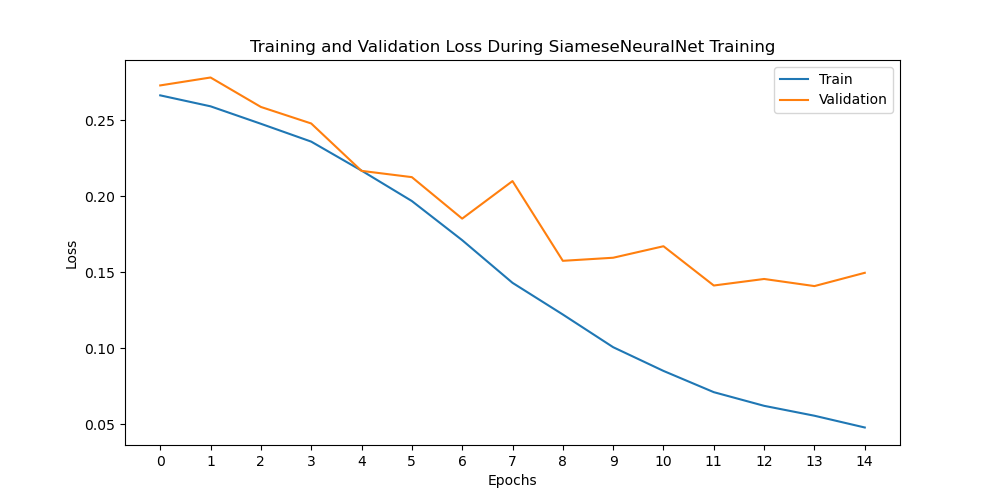
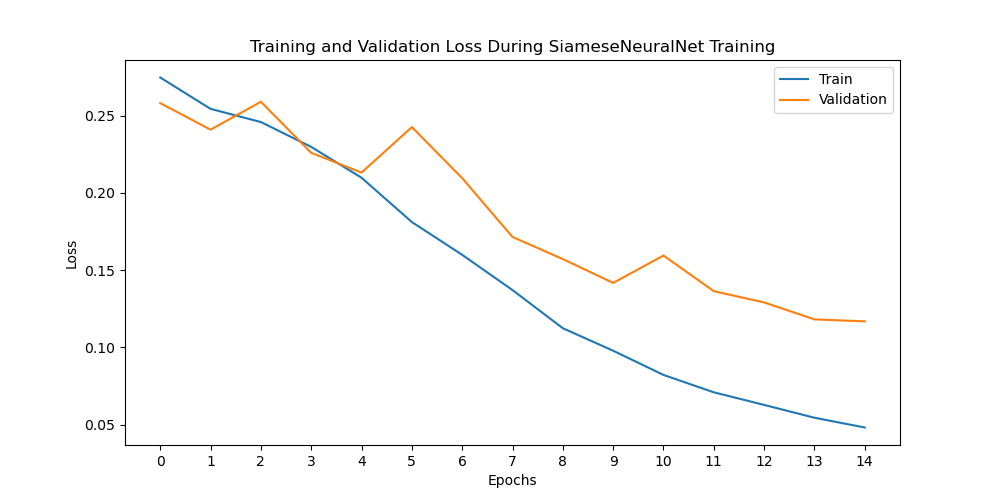
dataloading is now more robust against potential leakage between the train and validation sets, associated report changes

diff --git a/recognition/Siamese_46417259/dataset.py b/recognition/Siamese_46417259/dataset.py
@@ -108,70 +108,75 @@ class PairedDataset(torch.utils.data.Dataset):
         return self.debug_mode
 
 
-def load_data(training:bool, Siamese:bool, random_seed=None, train_proportion=0.8) -> torch.utils.data.DataLoader:
+def load_data(Siamese:bool, random_seed=None, train_proportion=0.8) -> torch.utils.data.DataLoader:
     """
     Function used to load training and validation data
-    this operation is not deterministic even if a random seed is provided, 
-    as the casting from set to list is not deterministic
+    this operation is deterministic if a random seed is provided
     args:
-        training: True loads training data, False loads validation data
         Siamese: True loads paired data for the Siamese Neural Network, False loads unitary data for the MLP
         random_seed: random seed to reduce randomness
         train_proportion: proportion of the dataset to be assigned to the training set.
             based on the number of unique patients in the dataset
     """
     path = train_path
-    if training:
-        if Siamese:
-            transforms = Siamese_train_transforms
-        else:
-            transforms = classifier_train_transforms
+    if Siamese:
+        train_transforms = Siamese_train_transforms
     else:
-        # validation set uses the same transforms as the test set
-        transforms = test_transforms
+        train_transforms = classifier_train_transforms
 
     if random_seed is not None:
         random.seed(random_seed)
         torch.random.manual_seed(random_seed)
 
-    source = dset.ImageFolder(root=path, transform=transforms)
-    patient_ids = set()
+    train_source = dset.ImageFolder(root=path, transform=train_transforms)
+    validation_source = dset.ImageFolder(root=path, transform=test_transforms)
+    patient_ids = {} # in Python 3.11.4 map is ordered in insertion order 
     
     # get a list of unique patient IDs
-    for i in range(len(source)):
-        filepath = source.imgs[i][0]
+    for i in range(len(train_source)):
+        filepath = train_source.imgs[i][0]
         # finds the patient ID from the filepath - specific to the ADNI dataset
         start, end = filepath.rfind(os.path.sep) + 1, filepath.rfind('_') 
         patient_id = filepath[start:end]
-        patient_ids.add(patient_id)
+        patient_ids[patient_id] = 0
     
-    patient_ids = list(patient_ids) # not deterministic
+    patient_ids = list(patient_ids.keys())
+    random.shuffle(patient_ids)
     split_point = int(train_proportion*len(patient_ids))
 
-    if training:
-        patients = patient_ids[:split_point]
-    else: 
-        patients = patient_ids[split_point:]
+    train_patients = patient_ids[:split_point]
 
-    indices_to_be_included = []
+    train_indices_to_be_included = []
+    validate_indices_to_be_included = []
 
-    # only include images from the selected patients
-    for i in range(len(source)):
-        filepath = source.imgs[i][0]
+    # separate images of the training patients and the validation patients
+    for i in range(len(train_source)):
+        filepath = train_source.imgs[i][0]
         start, end = filepath.rfind(os.path.sep) + 1, filepath.rfind('_')
         patient_id = filepath[start:end]
 
-        if patient_id in patients:
-            indices_to_be_included.append(i)
+        if patient_id in train_patients:
+            train_indices_to_be_included.append(i)
+        else:
+            validate_indices_to_be_included.append(i)
     
-    source = torch.utils.data.Subset(source, indices_to_be_included)
+    train_source = torch.utils.data.Subset(train_source, train_indices_to_be_included)
+    validation_source = torch.utils.data.Subset(validation_source, validate_indices_to_be_included)
 
-    images = source.dataset.imgs
-    image_paths = [images[i][0] for i in indices_to_be_included]
+    images = train_source.dataset.imgs
+    image_paths = [images[i][0] for i in train_indices_to_be_included]
+    print(f'train dataset has classes {train_source.dataset.class_to_idx} and {len(train_source)} images')
+    
+    # some statistics to cross-check that there is a roughly even split between AD and NC images
+    img_AD = [index for (index, item) in enumerate(image_paths) if item.find('AD' + os.path.sep) != -1]
+    print(f'AD images count: {len(img_AD)}')
+    img_NC = [index for (index, item) in enumerate(image_paths) if item.find(os.path.sep + 'NC') != -1]
+    print(f'NC images count: {len(img_NC)}')
 
-    print(f'loading {"training" if training else "validation"} data with a training split of {train_proportion}')
-    print(f'dataset has classes {source.dataset.class_to_idx} and {len(source)} images')
-
+    images = validation_source.dataset.imgs
+    image_paths = [images[i][0] for i in validate_indices_to_be_included]
+    print(f'validation dataset has classes {validation_source.dataset.class_to_idx} and {len(validation_source)} images')
+    
     # some statistics to cross-check that there is a roughly even split between AD and NC images
     img_AD = [index for (index, item) in enumerate(image_paths) if item.find('AD' + os.path.sep) != -1]
     print(f'AD images count: {len(img_AD)}')
@@ -182,17 +187,23 @@ def load_data(training:bool, Siamese:bool, random_seed=None, train_proportion=0.
         # loading paired data for the Siamese neural net
         # each data point is of format [img1, img2, similarity]
         # where similarity is 1 if the two images are of the same class and 0 otherwise
-        dataset = PairedDataset(source, False, random_seed=random_seed)
-        loader = torch.utils.data.DataLoader(dataset, batch_size=batch_size,
+        dataset = PairedDataset(train_source, False, random_seed=random_seed)
+        train_loader = torch.utils.data.DataLoader(dataset, batch_size=batch_size,
+                                            shuffle=True, num_workers=workers)
+        
+        dataset = PairedDataset(validation_source, False, random_seed=random_seed)
+        validation_loader = torch.utils.data.DataLoader(dataset, batch_size=batch_size,
                                             shuffle=True, num_workers=workers)
     else:
         # loading unitary training data for the MLP
         # each data point is of format [img, label]
         # where label is 1 if the image is of class AD and 0 otherwise
-        loader = torch.utils.data.DataLoader(source, batch_size=2*batch_size,
+        train_loader = torch.utils.data.DataLoader(train_source, batch_size=2*batch_size,
+                                            shuffle=True, num_workers=workers)
+        validation_loader = torch.utils.data.DataLoader(validation_source, batch_size=2*batch_size,
                                             shuffle=True, num_workers=workers)
     
-    return loader
+    return train_loader, validation_loader
 
 def load_test_data(Siamese:bool, random_seed=None) -> torch.utils.data.DataLoader:
     """
@@ -231,9 +242,9 @@ def load_test_data(Siamese:bool, random_seed=None) -> torch.utils.data.DataLoade
 # basic tests
 #
 def test_visualise_data_MLP():
-    # Plot some training images
-    dataloader = load_data(training=False, Siamese=False, train_proportion=0.99)
-    next_batch = next(iter(dataloader))
+    # Plot some validation images
+    train, validate = load_data(Siamese=False, train_proportion=0.99)
+    next_batch = next(iter(validate))
     print(next_batch[0][0].shape)
 
     # the following data visualisation code is modified based on code at
@@ -260,10 +271,10 @@ def test_visualise_data_MLP():
 
 def test_visualise_data_Siamese():
     # Plot some training images
-    dataloader = load_data(training=True, Siamese=True)
-    dataloader.dataset.debug_mode = True
+    train, validate = load_data(Siamese=True)
+    train.dataset.debug_mode = True
 
-    next_batch = next(iter(dataloader))
+    next_batch = next(iter(train))
     print(next_batch[0][0].shape)
     print(next_batch[0][1].shape)
 
@@ -288,11 +299,11 @@ def test_visualise_data_Siamese():
         plt.show()
 
 def test_data_leakage():
-    trainloader = load_data(training=True, Siamese=True, random_seed=89, train_proportion=0.8)
-    testloader  = load_data(training=False, Siamese=True, random_seed=89, train_proportion=0.8)
+    trainloader, testloader= load_data(Siamese=True, random_seed=89, train_proportion=0.8)
+    mlptrain, mlptest = load_data(Siamese=False, random_seed=89, train_proportion=0.8)
 
     train_subset = trainloader.dataset.dataset
-    test_subset = testloader.dataset.dataset
+    test_subset = mlptest.dataset
 
     training_images = train_subset.dataset.imgs
     testing_images = test_subset.dataset.imgs

diff --git a/recognition/Siamese_46417259/train.py b/recognition/Siamese_46417259/train.py
@@ -263,7 +263,7 @@ def eval_classifier_one_epoch(model: nn.Module,
 def Siamese_training(total_epochs:int, random_seed=None, checkpoint=None):
     """
     overall handler for training the Siamese network
-    this operation is not deterministic due to the call to load_data()
+    this operation is deterministic if a random seed is provided
     args:
         total_epochs: the epoch number to end training at. if resuming from a checkpoint, 
             this should be the number of epochs to train for in total, not the number of epochs to train for after resuming
@@ -277,8 +277,7 @@ def Siamese_training(total_epochs:int, random_seed=None, checkpoint=None):
 
     Siamese_checkpoint_filename = checkpoint
 
-    train_loader = load_data(training=True, Siamese=True, random_seed=random_seed)
-    validation_loader = load_data(training=False, Siamese=True, random_seed=random_seed)
+    train_loader, validation_loader = load_data(Siamese=True, random_seed=random_seed)
     # validation_loader = load_test_data(Siamese=True, random_seed=random_seed)
     siamese_net, criterion, optimiser, device = initialise_Siamese_training()
 
@@ -331,7 +330,7 @@ def Siamese_training(total_epochs:int, random_seed=None, checkpoint=None):
 def classifier_training(backbone: SiameseTwin, total_epochs:int, random_seed=None, checkpoint=None):
     """
     overall handler for training the classifier
-    this operation is not deterministic due to the call to load_data()
+    this operation is deterministic if a random seed is provided
     args:
         backbone: the embedding network to be used
         total_epochs: the epoch number to end training at. if resuming from a checkpoint, 
@@ -346,8 +345,7 @@ def classifier_training(backbone: SiameseTwin, total_epochs:int, random_seed=Non
 
     classifier_checkpoint_filename = checkpoint
 
-    train_loader = load_data(training=True, Siamese=False, random_seed=random_seed)
-    validation_loader = load_data(training=False, Siamese=False, random_seed=random_seed)
+    train_loader, validation_loader = load_data(Siamese=False, random_seed=random_seed)
     test_loader = load_test_data(Siamese=False, random_seed=random_seed)
 
     classifier, criterion, optimiser, device = initialise_classifier_training()
@@ -429,9 +427,9 @@ if __name__ == "__main__":
     # sequential training workflow
     net = Siamese_training(15, 35) # Model saving options available by uncommenting code in this function
     classifier = classifier_training(net.backbone, 20, 35) # comment out this line to train classifier based on last saved Siamese model
-    device = torch.device("cuda:0" if torch.cuda.is_available() else "mps")
 
     # if formal testing output is required
+    device = torch.device("cuda:0" if torch.cuda.is_available() else "mps")
     make_predictions(classifier, net.backbone, device, random_seed=35)
     visualise_sample_predictions(classifier, net.backbone, device, random_seed=35, save_name='Predictions')
 

diff --git a/recognition/Siamese_46417259/README.md b/recognition/Siamese_46417259/README.md
@@ -1,4 +1,6 @@
 # Identification of Alzheimer's Disease in Brain Scans Using a Siamese Neural Network
+Report Version 1.1
+
 Project by Minhao Sun. 
 
 This project is a part of the University of Queensland's COMP3710: Pattern Recognition and Analysis course in Semester 2, 2023.
@@ -91,7 +93,6 @@ The project uses the Alzheimer’s Disease Neuroimaging Initiative (ADNI) brain 
 > [!NOTE]
 > The file paths to the dataset are configurable via `CONSTANTS.py`.
 
-
 ## Training / Validation / Test Split
 The ADNI dataset is provided in two subfolders: `train` (21520 images) and `test` (9000 images). 
 The images in the `test` folder form the project's testing set. 
@@ -132,11 +133,8 @@ The training and validation of the models are implemented in `train.py`. Two dif
 * A sequential training workflow where the Siamese network is trained for a specified number of epochs, then the embedding network at the last epoch is used to train the classifier
 * A modular training workflow where the classifer is trained based on any pretrained and saved embedding network.
 
-> [!IMPORTANT]
-> All plots in this section were produced with a seed of 35 for both python's `random` module and Pytorch's inbuilt pseudo-random number generator. 
-> Despite efforts to reduce randomness in the training process, training runs with the same random seed are not deterministic. 
-> This is because in handling the training and validation set split, the project casts a Set of patient IDs to a List, and this operation is not deterministic.
-> Accordingly, these plots may not be exactly reproducible.
+> [!NOTE]
+> All plots in this section were produced by calling the functions `Siamese_training` and `classifier_training` with a seed of 42.
 
 ## Siamese Training for the Embedding Network 
 ### Loss Function
@@ -152,7 +150,7 @@ Adam was used as the optimiser for the Siamese network with a learning rate of 0
 ### Results
 The Siamese network is trained with a batch size of 32. As the dataset for the Siamese network supplies paired images, the batch size of 32 corresponds to 64 images in the GPU at any one time.
 Ultimately, it was found that 15 epochs of Siamese training for the embedding network resulted in the best classifier accuracy regardless of the number of epochs used to train the classifier.
-This is despite the fact that the Siamese network appears to overfit the training data after 9 to 11 epochs of training in the loss plot below (note that the x-axis of the plot is 0-indexed). 
+The training and validation loss plot is shown below.
 
 ![Training and validation loss plot for the overall Siamese network, showing validation loss diverging from training loss from around epochs 9 to 11](assets/Siamese_loss_after_15_epochs.png)
 <sub>Training and validation loss plot for the overall Siamese network</sub>
@@ -176,21 +174,18 @@ In contrast, the validation loss has a greater range of variation over the 20 ep
 
 The classifier's accuracy for both the validation set and the test set is shown below. 
 The accuracy of the classifier for both datasets appears to remain stable throughout all epochs. 
-**The best classification accuracy on the test set ever achieved by the model is 79.26%. Typically, over a single run of 20 classifier epochs, the model achieves a classification accuracy on the test set of approximately 77% in the best epoch.**
+**The best classification accuracy on the test set ever achieved by the model is 79.26%. Over a single run of 20 classifier epochs, the model typically achieves a classification accuracy on the test set of approximately 77% in the best epoch.**
 
 ![Plot of the classifier's accuracy on the validation and test datasets, showing both accuracies to remain relatively stable throughout all 20 epochs](assets/Classifier_Accuracy_after_20_epochs.png)
 <sub>Plot of the classifier's accuracy on the validation and test datasets</sub>
 
 ## Discussion
-The process of training and tuning the models raised several interesting observations. 
-First, given its loss plots, it appears that the Siamese network was overfitting the training data from around epoch 8 to epoch 10 onwards. 
-Interestingly, despite the apparent overfitting, training the Siamese network for 15 epochs resulted in a better final classifier accuracy. 
-Other attempts were made where the Siamese network was trained for 5, 8 or 10 epochs, and in all those cases, the final classifier performed worse compared to 15 epochs of Siamese network training.
-This suggests that the Siamese network might not be overfitting the training data as early as suggested by the loss plot. 
-Overall, the project can be further improved by the implementation of N-fold cross-validation, which might offer more insight into the model's fit to the training data.
+An interesting observation raised in the process of training and tuning the models is that there appears to be no correlation between the number of epochs of classifier training and the accuracy of the classifier. 
+This absence of correlation appears consistently across all training runs, regardless of the number of epochs of training that the Siamese backbone received. 
 
-A second interesting observation is that there appears to be no correlation between the number of epochs of classifier training and the accuracy of the classifier. This absence of correlation appears consistently across several training runs, regardless of the number of epochs of training that the Siamese backbone received. A potential explanation for this behaviour is the fact that the Siamese embedding network architecture used in this project closely follows the architecture proposed by Koch, Zemel and Salakhutdinov<sup>1</sup>. 
+A potential explanation for this behaviour is the fact that the Siamese embedding network architecture used in this project closely follows the architecture proposed by Koch, Zemel and Salakhutdinov<sup>1</sup>. 
 The original paper by Koch, Zemel and Salakhutdinov was concerned with solving a one-shot image recognition task where, after the Siamese embedding network is trained, the classification network only observes a single example of each possible class before making a prediction about a test instance. 
+
 In contrast, in the present project with a training split of 80%, the classifier is permitted to observe approximately 8400 images of the class AD and approximately 8800 images of the class NC in one epoch of training before making a prediction about a test instance.
 Ultimately, given that the embedding network architecture was optimised for a one-shot recognition task, it appears reasonable that the classifier was able to achieve a testing accuracy close to the final (best) accuracy within the first epoch of training. 
 
